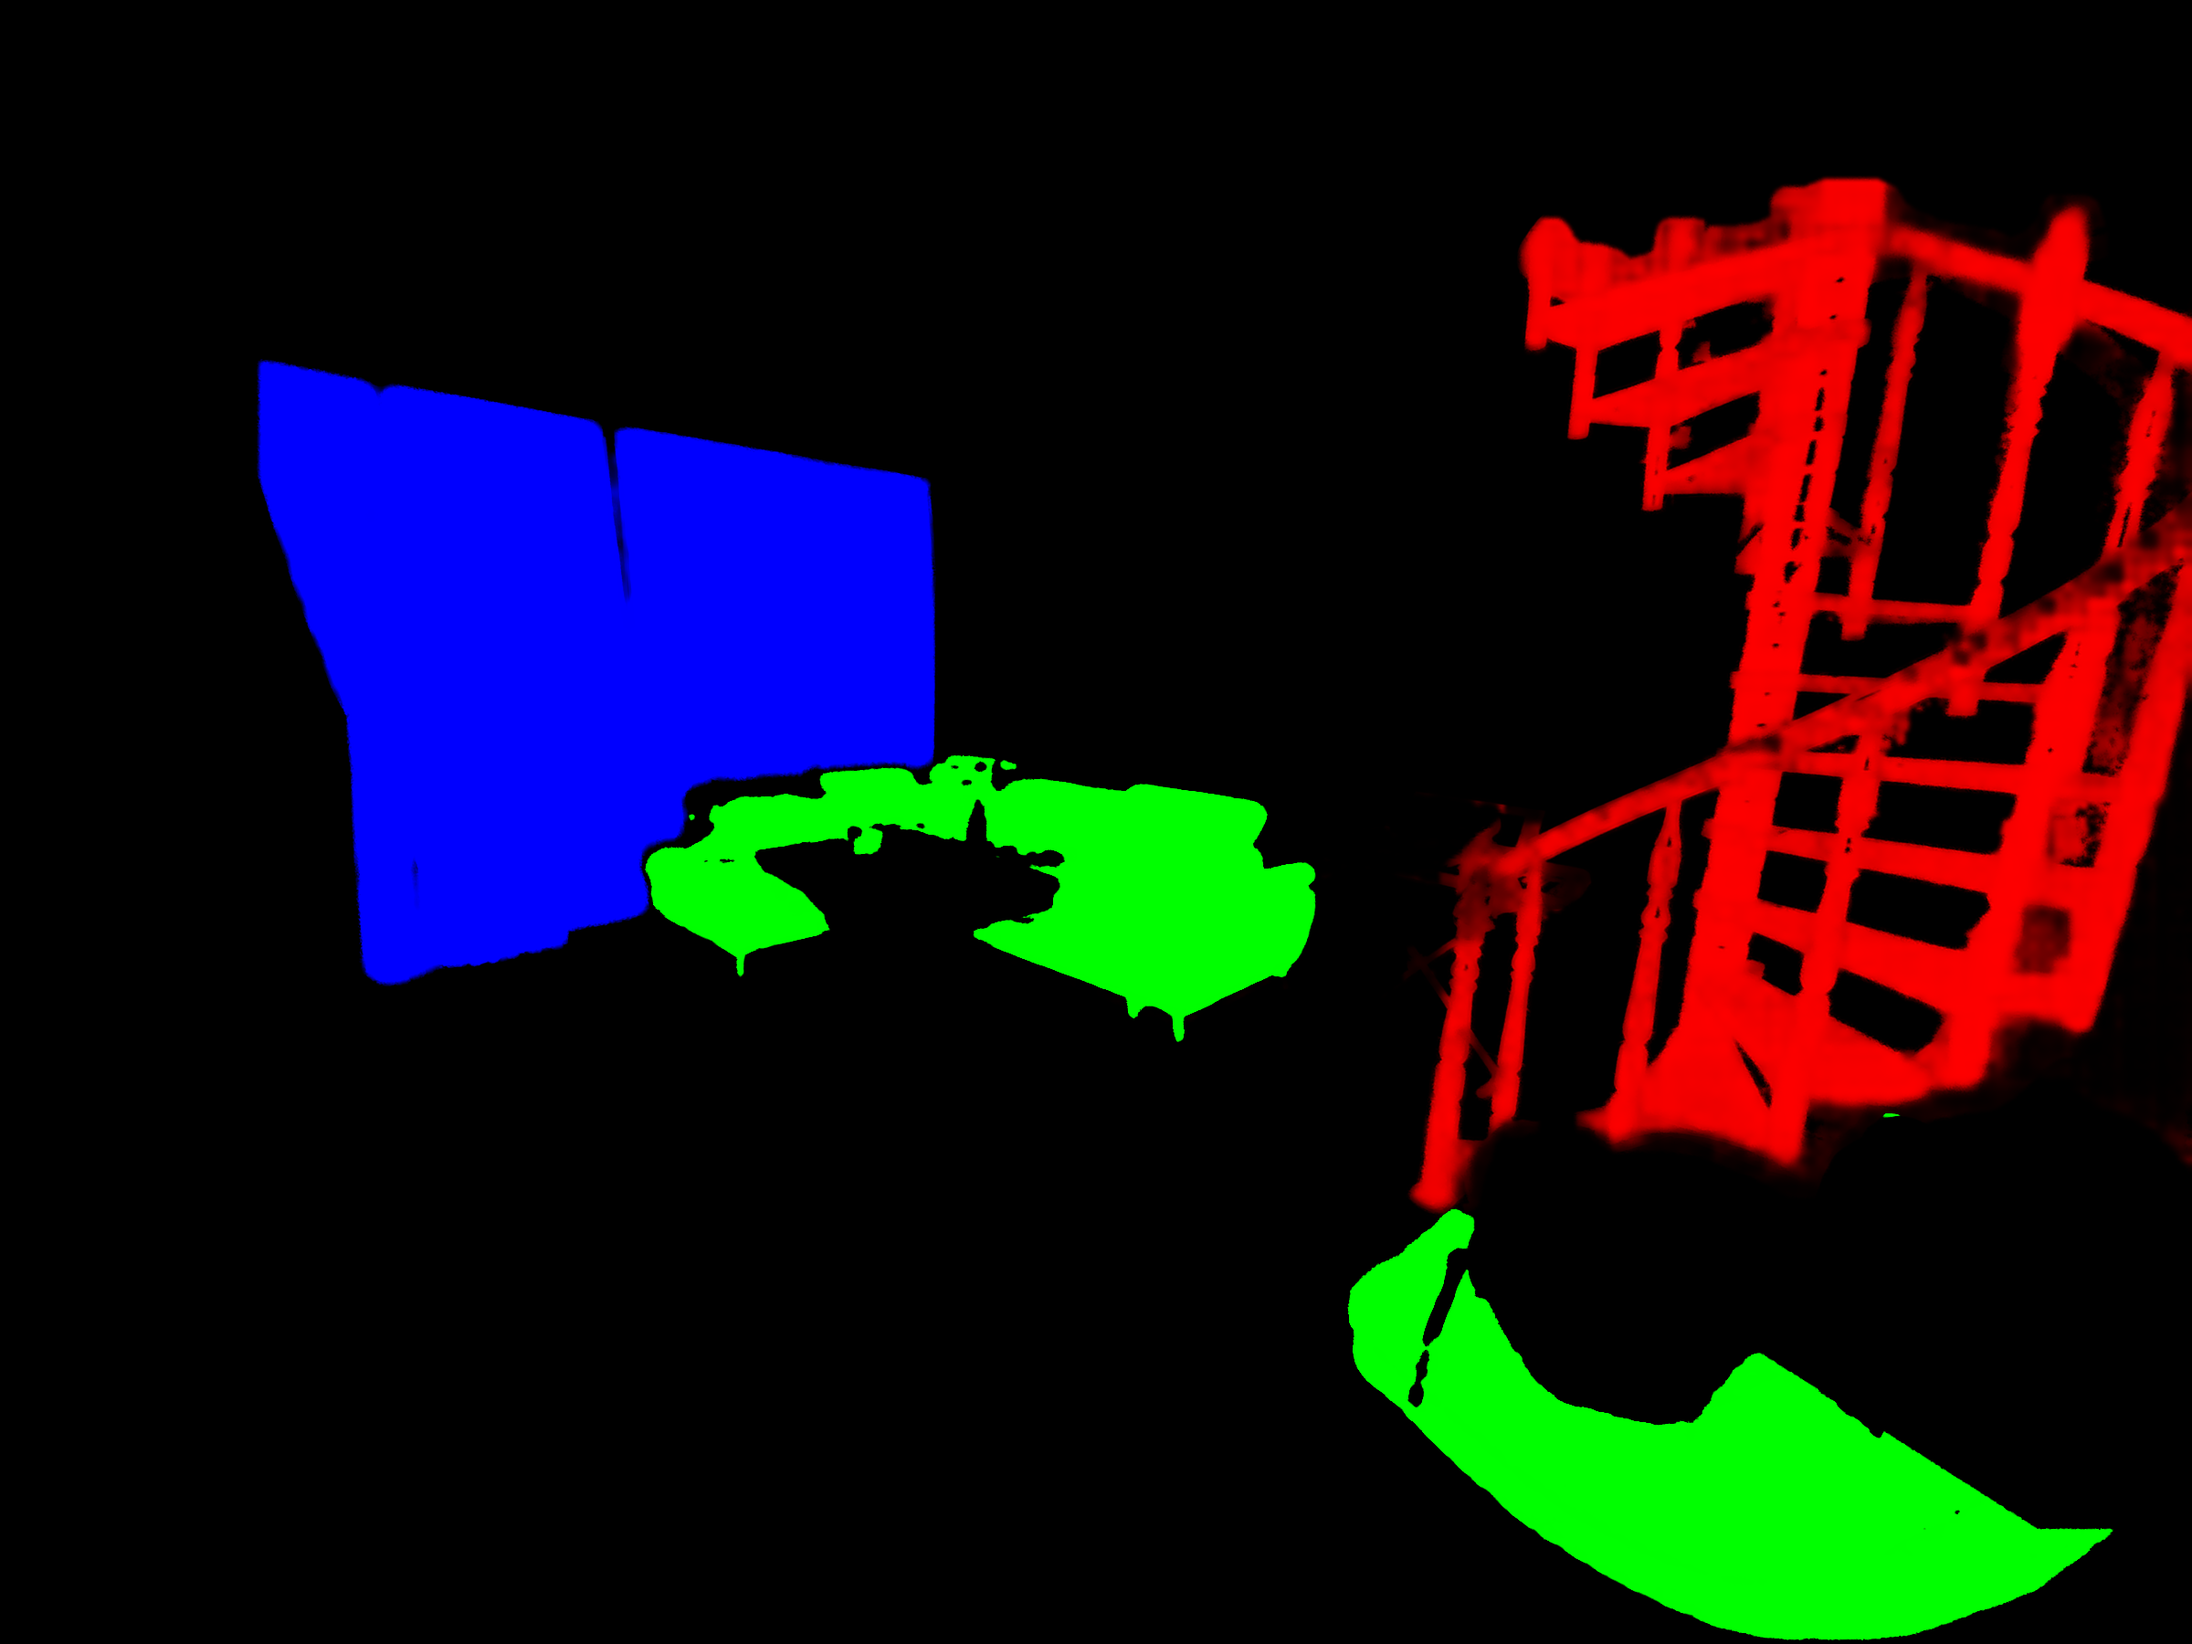
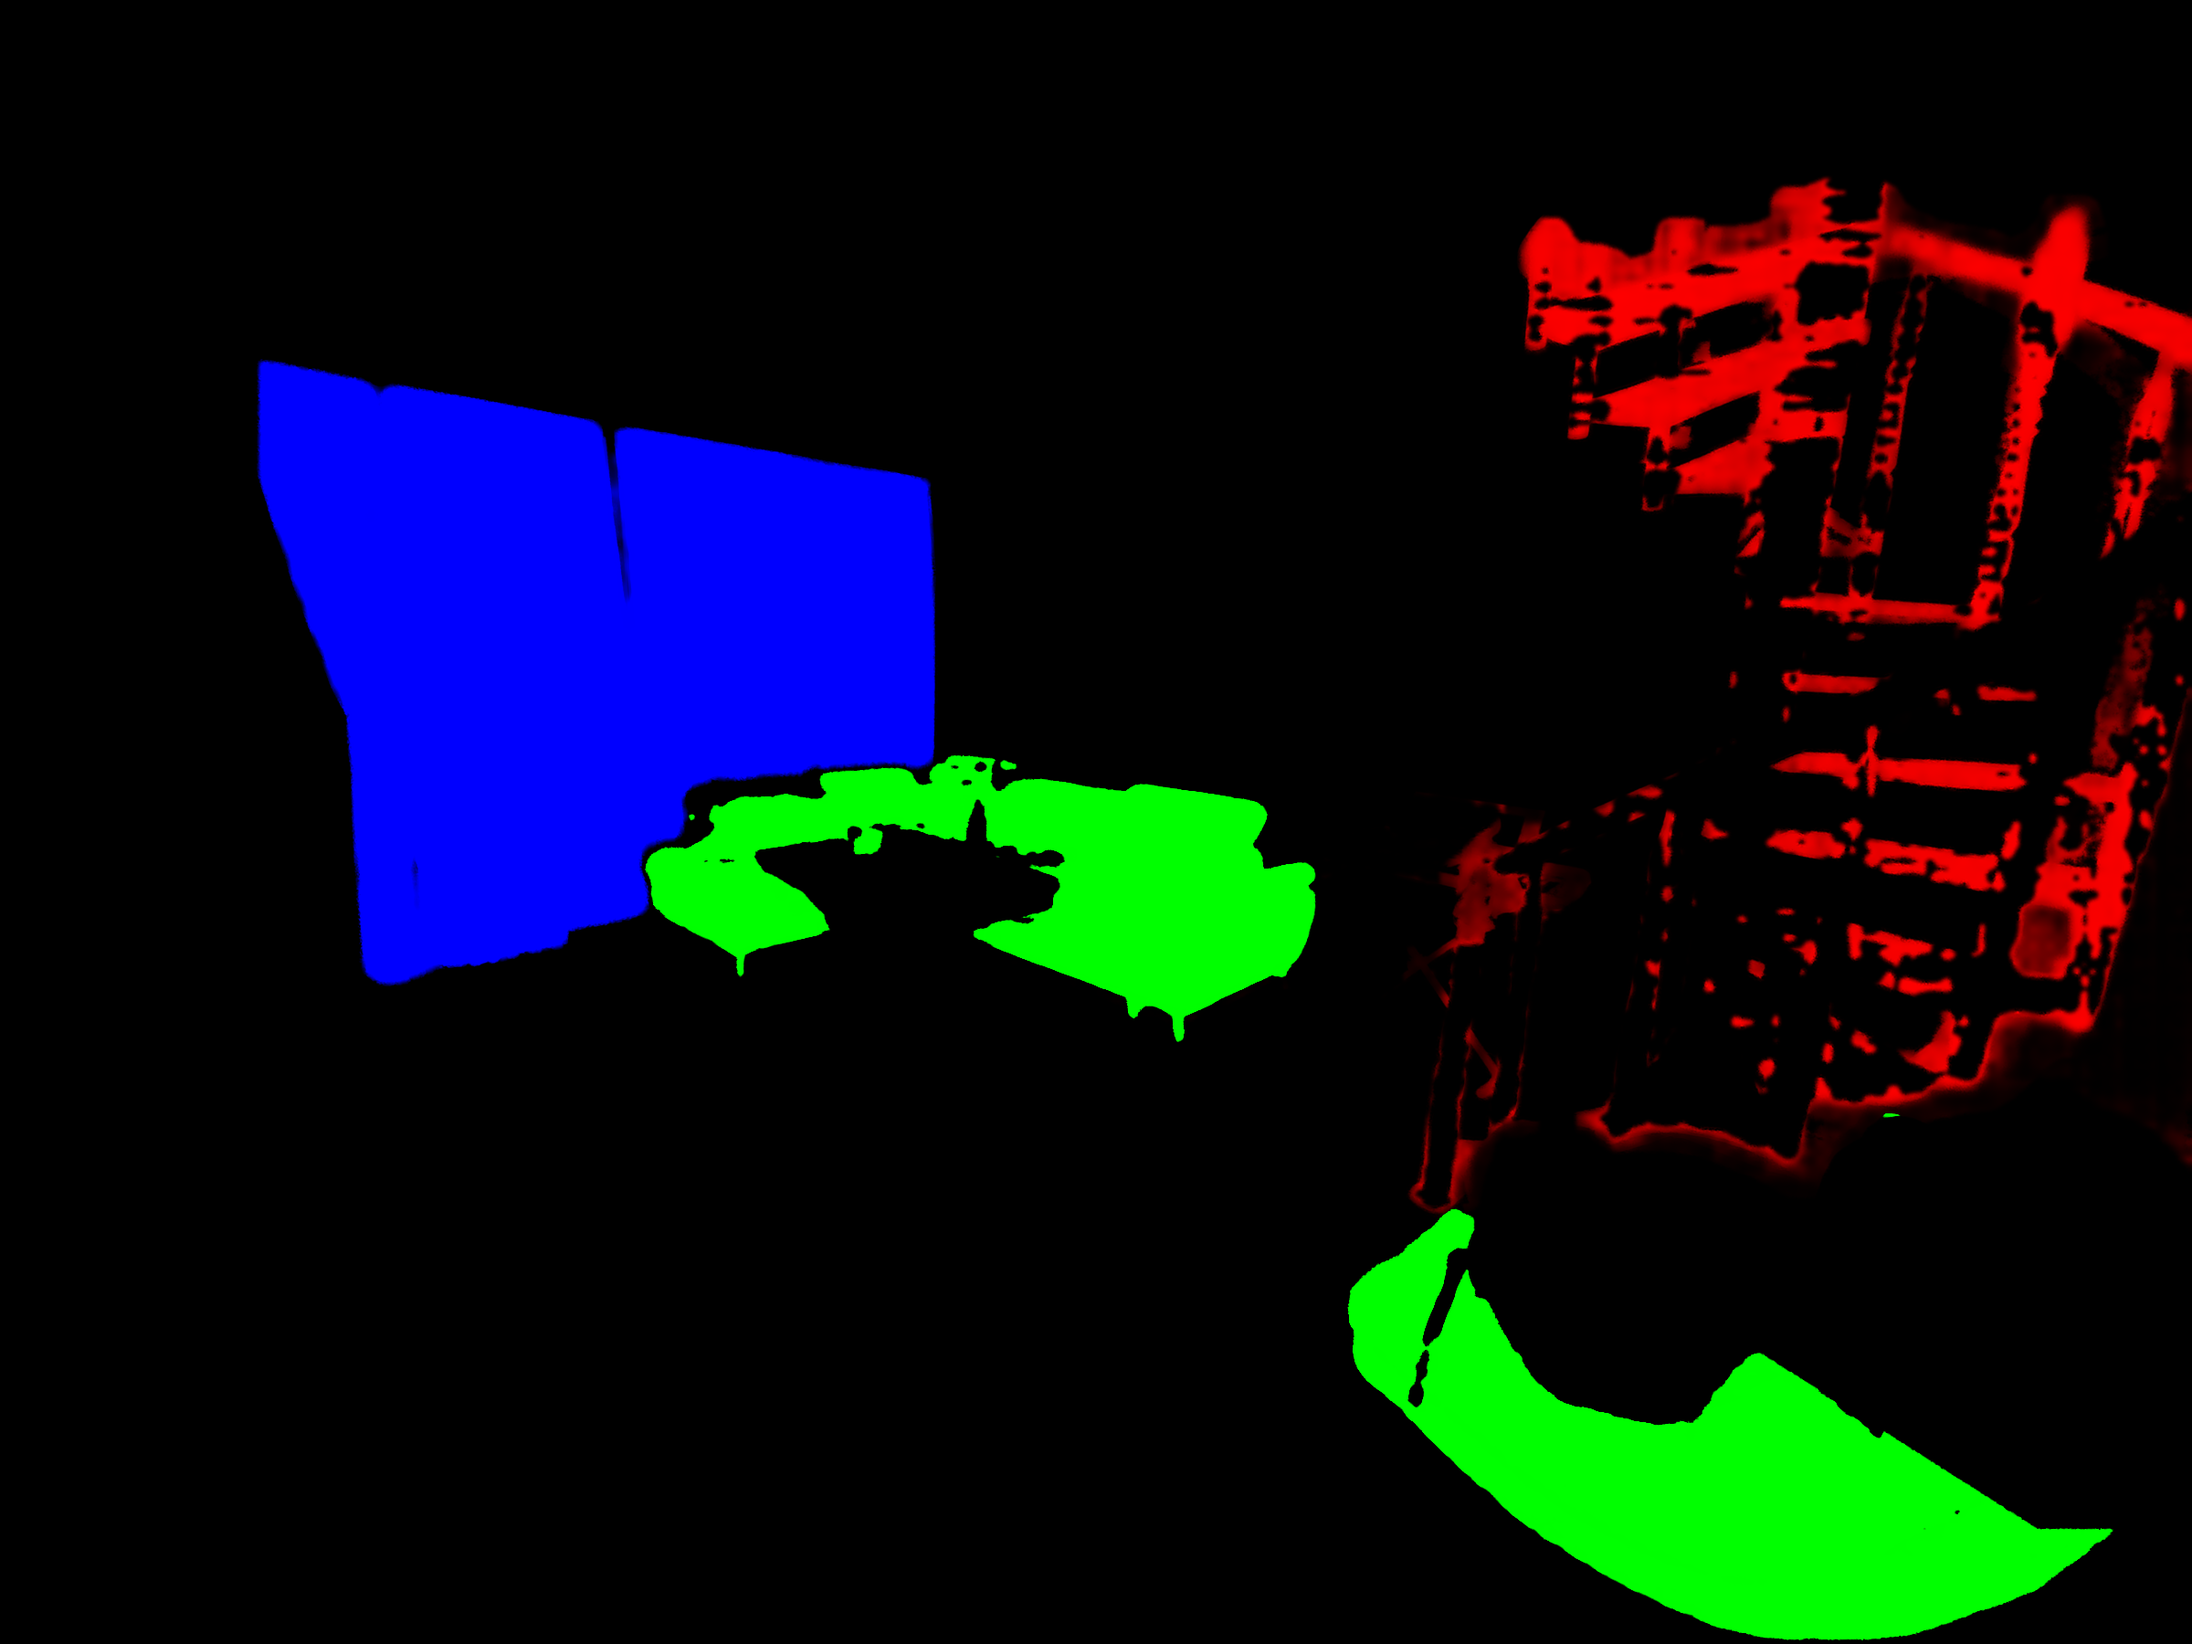
Glass reads as glass (tint, 50% original, opaque frame), wall growth to object edges, unpainted wall fixes

Changed region(s): [[0.625, 0.0933, 1.0, 0.7467], [0.9062, 0.1867, 0.9375, 0.2178]]

diff --git a/index.html b/index.html
@@ -66,8 +66,8 @@ void main(){vec3 o=lin(texture2D(ph,v).rgb);float L=lum(o);
  for(int i=0;i<7;i++){ if(i==1){
    if(fmode>1.5){vec3 q=Hi*vec3(v*asp,1.);vec2 uv=q.xy/q.z/tscale;
      vec3 t=lin(texture2D(ft,uv).rgb);if(stainOn>.5)t=lin(stain)*(lum(t)/tmean)*.9;
-     float sh=clamp(pow(Ls/mean[1],.5),.3,1.2)*pow(det,.18);float spec=max(0.,Ls/mean[1]-1.3)*.35+max(0.,det-1.25)*.25;vec3 nf=t*sh/1.05+spec*.25;c=mix(c,nf,w[1]);c=mix(c,nf*vec3(.78,.88,.85)*.9+vec3(max(L-Ls,0.))*1.2+o*.12,mcc.b);}
-   else if(fmode>.5){vec3 nf=lin(col[1])*min(L/mean[1],3.);c=mix(c,nf,w[1]);c=mix(c,lin(col[1])*min(Ls/mean[1],2.)*vec3(.78,.88,.85)*.9+vec3(max(L-Ls,0.))*1.2+o*.12,mcc.b);}
+     float sh=clamp(pow(Ls/mean[1],.5),.3,1.2)*pow(det,.18);float spec=max(0.,Ls/mean[1]-1.3)*.35+max(0.,det-1.25)*.25;vec3 nf=t*sh/1.05+spec*.25;c=mix(c,nf,w[1]);c=mix(c,mix(nf*vec3(.80,.93,.86),o,.5)+vec3(max(L-Ls,0.))*1.5,mcc.b);}
+   else if(fmode>.5){vec3 nf=lin(col[1])*min(L/mean[1],3.);c=mix(c,nf,w[1]);c=mix(c,mix(lin(col[1])*min(Ls/mean[1],2.)*vec3(.80,.93,.86),o,.5)+vec3(max(L-Ls,0.))*1.5,mcc.b);}
   } else if(on[i]>.5){vec3 nc=(i==3)?lin(col[i])*pow(min(Ls/mean[i],4.),.8)*pow(det,.55):(i==4)?lin(col[i])*pow(min(Ls/mean[i],3.),.9)*pow(det,.8):lin(col[i])*min(L/mean[i],3.);c=mix(c,nc,w[i]);} }
  if(on[7]>.5)c=mix(c,lin(col[7])*min(L/mean[0],3.),wa);
  c*=lt;if(dark>0.){float d=distance(v,vec2(.5,.25));c*=mix(1.,.35+.9*exp(-d*d*6.),dark);}
